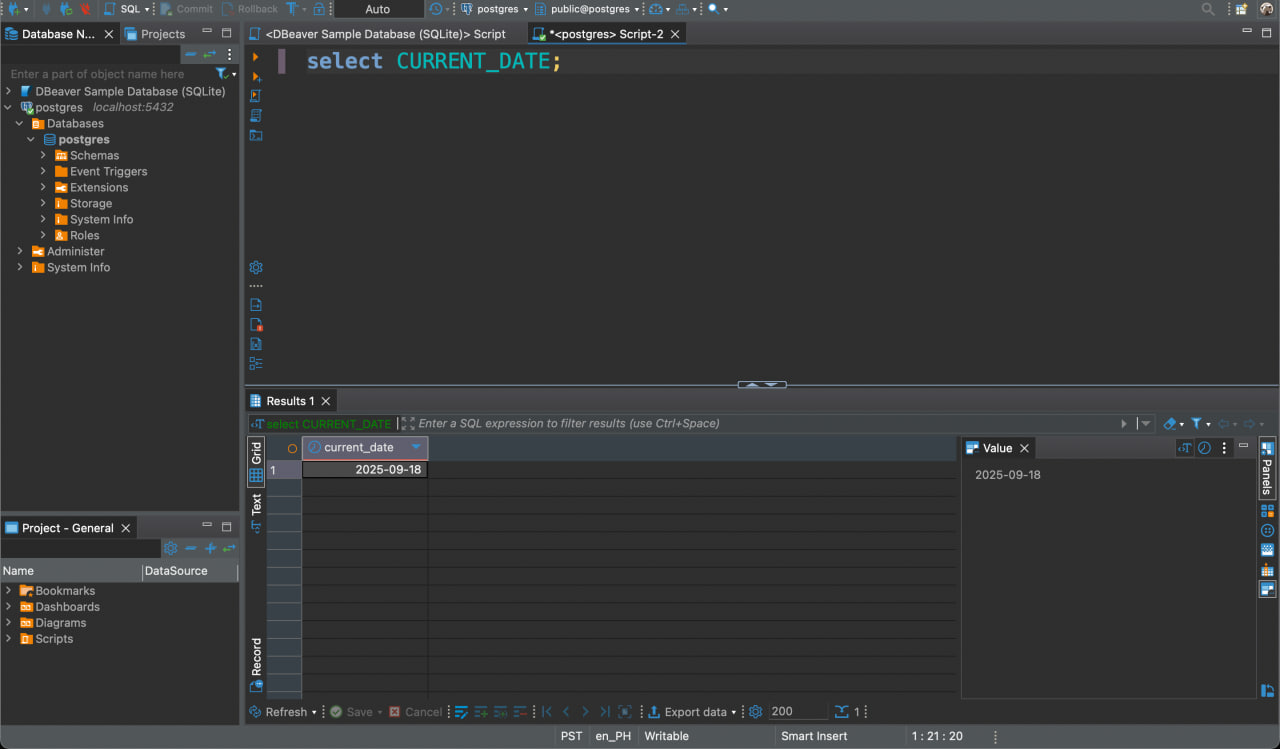
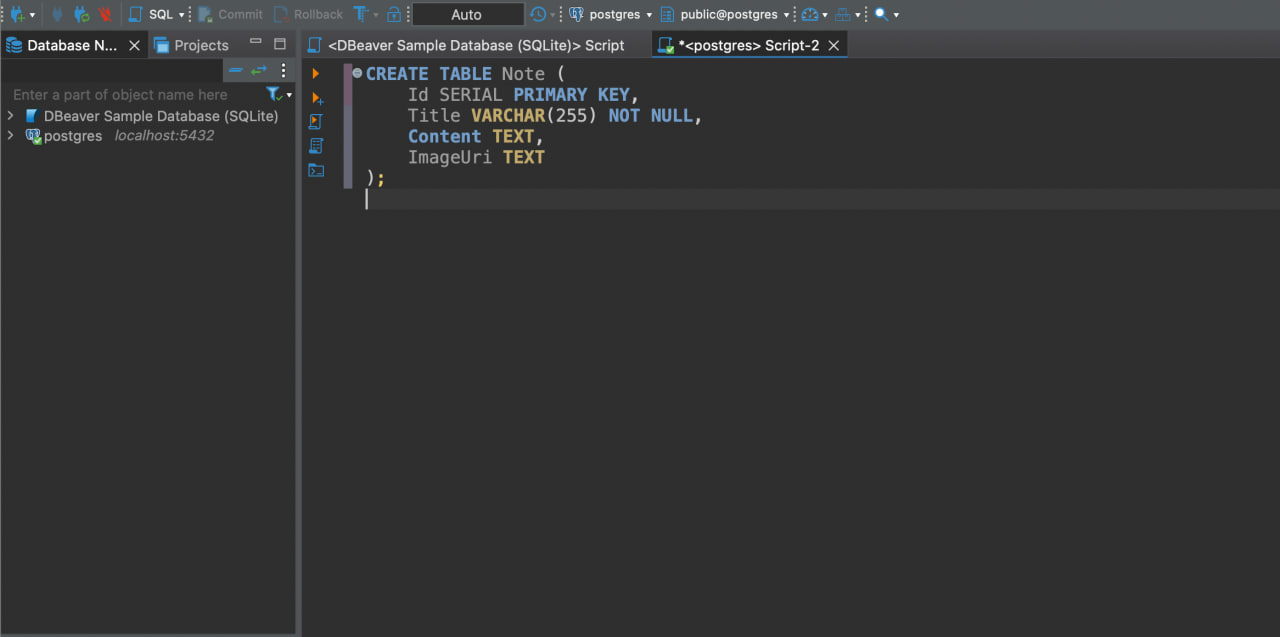
update api section

diff --git a/src/chapter-5/apis.md b/src/chapter-5/apis.md
@@ -1,0 +1,107 @@
+# APIs
+
+Now that we have our database, it’s time to host the REST API that our UI can communicate with.
+
+![Figure 1](../images/apis-1.jpg)
+
+The API has just three endpoints:
+- `GET /notes` – retrieves all notes
+- `POST /notes` – adds a new note
+- `DELETE /note/{id}` – deletes the note with the specified ID
+
+## Database Connection
+To connect to the database initially, I hardcoded a Postgres connection string in my **appsettings** and used it at runtime. This approach is not secure since it exposes sensitive data in source control. We’ll address how to secure this in a later section.
+
+```json
+"ConnectionStrings": {
+    "DefaultConnection": "Host=localhost;Port=5432;Database=postgres;Username=postgres;Password=postgres"
+}
+```
+Also notice how I'm using `localhost` as my host for now. This works during development since I'm able to proxy requests to my Postgres service. But once we run this as a container it won't work anymore because there would be no database service running in the API's container. We'll see how to address this in the next section.
+
+## Containerization with Docker
+For now, with the API ready, the next step is to serve it through Docker. Since no container image exists on Docker Hub for our app yet, we’ll need to build one ourselves.
+
+The goal is to build a Docker image that contains everything the app needs to run: any binaries, dependencies, source code, and the runtime (if it’s not natively compiled).
+
+I’ve included the Dockerfile I created for the `notely-api` project below. It uses a few optimizations and might look a bit more advanced than a beginner Dockerfile example, but don’t worry too much about that. The important part is simply that it produces a working container image for your API. So you do you.
+
+```dockerfile
+FROM mcr.microsoft.com/dotnet/aspnet:8.0 AS base
+WORKDIR /app
+EXPOSE 5228
+
+FROM mcr.microsoft.com/dotnet/sdk:8.0 AS build
+ARG BUILD_CONFIGURATION=Release
+WORKDIR /src
+COPY ["notely-api.csproj", "."]
+RUN dotnet restore "notely-api.csproj"
+COPY . .
+RUN dotnet build "notely-api.csproj" -c $BUILD_CONFIGURATION -o /app/build
+
+FROM build AS publish
+ARG BUILD_CONFIGURATION=Release
+RUN dotnet publish "notely-api.csproj" -c $BUILD_CONFIGURATION -o /app/publish /p:UseAppHost=false
+
+FROM base AS final
+WORKDIR /app
+COPY --from=publish /app/publish .
+ENTRYPOINT ["dotnet", "notely-api.dll"]
+```
+
+Let's break down what this does into steps:
+
+1. **Base Image**
+```dockerfile
+FROM mcr.microsoft.com/dotnet/aspnet:8.0 AS base
+WORKDIR /app
+EXPOSE 5228
+```
+This stage defines the runtime environment for our API. We start with Microsoft’s official ASP.NET 8.0 runtime image, set /app as the working directory, and expose port 5228, which is the port our API will run on inside the container.
+
+2. **Build Stage**
+```dockerfile
+FROM mcr.microsoft.com/dotnet/sdk:8.0 AS build
+ARG BUILD_CONFIGURATION=Release
+WORKDIR /src
+COPY ["notely-api.csproj", "."]
+RUN dotnet restore "notely-api.csproj"
+COPY . .
+RUN dotnet build "notely-api.csproj" -c $BUILD_CONFIGURATION -o /app/build
+```
+Here, we use Microsoft’s .NET 8.0 SDK image, which includes everything needed to compile the source code. We copy in the project file, restore dependencies, then copy in the rest of the code and build it. The result is a set of compiled binaries in `/app/build`
+
+3. **Publish Stage**
+```dockerfile
+FROM build AS publish
+ARG BUILD_CONFIGURATION=Release
+RUN dotnet publish "notely-api.csproj" -c $BUILD_CONFIGURATION -o /app/publish /p:UseAppHost=false
+```
+This stage takes the compiled code and performs a `dotnet publish`, which trims out unnecessary build files and produces the minimal set of files required to actually run the API. We then drop those into `/app/publish`.
+
+4. **Final Stage**
+```dockerfile
+FROM base AS final
+WORKDIR /app
+COPY --from=publish /app/publish .
+ENTRYPOINT ["dotnet", "notely-api.dll"]
+```
+Finally, we start from the smaller ASP.NET runtime image (the `base` stage), copy in only the published output, and set the container to run the app by default with `dotnet notely-api.dll`. This keeps the final image small and focused just on running the API.
+
+## Building the Image
+
+Now that we have a Dockerfile, we can turn it into an image that can be run as a container. Run the following command from the root of the project (where the Dockerfile is located):
+
+```sh
+docker build -t jamesesguerra025/notely-api .
+```
+
+You can replace the repository and image name with whatever naming convention you prefer.
+
+## Running the Container
+
+Once the image is built, you can start a container from it. The command below runs the container, maps port 5228 inside the container to port 5228 on your host, and gives it a friendly name:
+
+```sh
+docker run -d -p 5228:5228 --name notely-api jamesesguerra025/notely-api
+```

diff --git a/src/chapter-2/my-journey.md b/src/chapter-2/my-journey.md
@@ -6,7 +6,7 @@ For a while, that was enough. But when Heroku’s free tier ended in November 20
 
 Around the same time, I landed a job as a software engineer working with .NET and SQL Server. Suddenly, I had a new problem: most PaaS platforms catered to Node.js or Python apps, with PostgreSQL as the default database. Finding a service that supported .NET out of the box was pretty challenging.
 
-I gave those platforms a shot, but another issue surfaced: network latency. From my country (the Philippines), connecting to their servers felt sluggish. That pushed me to try Azure, since I was already using it at work. Azure App Service was honestly great and super easy to set up (I even wrote an [article](https://medium.com/@jamesesguerra025/how-to-deploy-a-net-api-for-free-on-azure-787e95424f0a) about it). The catch, though, was the database pricing. I built a small app for my mom’s job, and even though it didn’t store much data, my Azure SQL bill ballooned to around ₱1,000 (~17 USD) a month. For a side project I wanted to host for free, that felt like burning money.
+I gave those platforms a shot, but another issue surfaced: network latency. From my country (the Philippines), connecting to their servers felt sluggish. That pushed me to try Azure, since I was already using it at work. Azure App Service was honestly great and super easy to set up (I even wrote an [article](https://medium.com/@jamesesguerra025/how-to-deploy-a-net-api-for-free-on-azure-787e95424f0a) about it). The catch, though, was the database pricing. I built a small app to help my mom with her job, and even though it didn’t store much data, my Azure SQL bill ballooned to around ₱1,000 (~17 USD) a month. For a side project I wanted to host for free, that felt like burning money.
 
 That frustration led me deeper into DevOps. In September 2024, I bought a mini PC and dove into the world of self-hosting. I saw people online running setups I could barely comprehend. Jellyfin, Nextcloud, Home Assistant, you name it. I started smaller, hosting apps like Glance, Jellyfin, Nginx Proxy Manager, Gitea, and even my own self-hosted runners, all managed with Docker Swarm.
 
@@ -14,4 +14,4 @@ It was addictive. So I soon thought, if I can host all this infrastructure mysel
 
 From there, I began piecing together a simple architecture, one where my projects could safely connect to the different services on my mini PC without me constantly worrying about breaking something.
 
-And that’s how this book came to be: the result of documenting that journey, so other budget-conscious developers like me can build their own little cloud at home.
+And that’s how this book came to be: the result of documenting that journey, so other budget-conscious developers like me can build their own little cloud at home that can host their projects.

diff --git a/src/chapter-5/intro-sample-app.md b/src/chapter-5/intro-sample-app.md
@@ -1,0 +1,31 @@
+# Introducing Our Sample App
+
+## Notely
+
+Before we dive into hosting more services, i'll try to ground ourselves with a concrete example. Throughout this chapter, I’ll be using a simple full-stack app called **Notely**.
+
+![Figure 1](../images/sample-app.jpg)
+
+Notely is a super minimal note-taking app that supports the basic CRUD (Create, Read, Update, Delete) operations. It simply allows you to view notes, add notes, and delete notes. In reality, what the app does doesn’t really matter. The focus here is on learning how to host and connect the different parts of a full-stack app. I chose something this simple so we can keep our attention on the hosting concepts rather than the app’s complexity.
+
+Each note has just a few fields:
+- `id` – a unique identifier
+- `title` – a short text label
+- `content` – the main body of the note
+- `imageUri` – a string that points to an uploaded image
+
+The app is built with React on the frontend and .NET Core on the backend. React gives us a clean, interactive UI for managing notes, while .NET Core provides the API that connects to our database and exposes the necessary endpoints.
+
+It’s deliberately simple, but this simplicity is what makes it a perfect learning companion. With Notely, we’ll touch on the main building blocks of almost any full-stack app:
+- a **database** for storing notes
+- an **API** that acts as a structured connector to our database
+- a **UI** so users can actually interact with them
+- **object storage** for image uploads
+
+Even though I’ll be walking through everything in the context of Notely, the concepts apply to just about any app you might want to host. So whether you’re building a recipe manager, a small blog, or your next big idea, you should be able to follow along and apply the same principles.
+
+## Using Different Services
+
+Notely is just an example, you don’t have to use the exact services I’m showing. For any part of your stack, you can find a container that works for your preferred tool and follow its instructions to set it up. It's really just as simple as going to [Docker Hub](https://hub.docker.com/), searching for what you want, and following their setup instructions. 
+
+That said, you’ll have to do a bit more grunt work from your end: reading the documentation, configuring the container to fit your setup, and making sure it can communicate with the other services in your environment. Some tweaks to networking, environment variables, or storage paths might be necessary, but the hosting concepts in this book: connecting services, networking containers, and exposing endpoints, all apply the same way. This gives you the flexibility to experiment with whatever stack you like while following along.

diff --git a/src/chapter-5/databases-local.md b/src/chapter-5/databases-local.md
@@ -1,4 +1,4 @@
-# Exposing Postgres for Local Access
+# Exposing for Local Access
 If Adminer isn’t your thing (I wouldn’t blame you, it can feel pretty clunky at first), you can connect to the self-hosted database using a tool like DBeaver, TablePlus, or any other SQL client. This assumes that you're hosting on a mini PC though, or that you can connect with another device.
 
 To make this possible, we need to expose the Postgres container’s port so it’s reachable outside of Docker. This is done by adding a `ports` section to your Compose file. Forward host port `5432` to the container’s `5432` (Postgres’s default port). You can also remove the `adminer` service since we won’t need it anymore.
@@ -28,7 +28,7 @@ You can quickly verify that the container is reachable with:
 curl localhost:1433
 ```
 
-If you see  `curl: Empty reply from server`, this is actually a good thing. t means the connection works; Postgres just doesn’t speak HTTP. However, if you see `curl: Failed to connect to localhost port 5432`, then something's wrong. Double-check your compose file and restart.
+If you see  `curl: Empty reply from server`, this is actually a good thing. It means the connection works; Postgres just doesn’t speak HTTP. However, if you see `curl: Failed to connect to localhost port 5432`, then something's wrong. Double-check your compose file and restart.
 
 ## Exposing through Cloudflare
 Now that your DB port is exposed locally, we can make it accessible remotely. Head back to the **Zero Trust Dashboard** and publish a new application route. This time, instead of setting the **Service Type** to `HTTP`, choose `TCP`, since databases don’t respond to HTTP traffic.
@@ -60,7 +60,7 @@ For my Host, enter `localhost`, then fill in the same credentials as before.
 
 ![Figure 2](../images/connecting-locally-2.png)
 
-Click **Test Connection** to make sure everything is working. If the test succeeds, click **Finish**. You should now be able to run queries against your server in a friendlier, more familiar interface.
+Click **Test Connection** to make sure everything is working. If the test succeeds, click **Finish**. You should now be able to run queries against your server in a friendlier, more familiar interface. And because I’m used to just typing queries in an editor, I’ll take the time to enter my `CREATE TABLE` statement for our `Note` table.
 
 ![Figure 3](../images/connecting-locally-3.jpg)
 

diff --git a/src/chapter-4/cloudflare-account-and-domain.md b/src/chapter-4/cloudflare-account-and-domain.md
@@ -1,7 +1,7 @@
 # Setting up a Cloudflare account + Domain
 
 ## Why Cloudflare?
-First, I have to mention why I chose to register my domain with Cloudflare. It's mainly because it gives me free, automatic HTTPS out of the box. That means the moment I map a service to my domain, Cloudflare issues and manages SSL/TLS certificates for me, with no manual setup or renewal required. For a DIY setup where I can't be bothered fiddling with Let’s Encrypt or OpenSSL (yes, there are tools to make it easier, but nothing beats doing nothing) configuration, this is a huge win. Managing your own certificates and dealing with HTTPS in general can quickly become a headache and a roadblock for beginners.
+First, I have to mention why I chose to register my domain with Cloudflare. It's mainly because it gives me free, automatic HTTPS out of the box. That means the moment I map a service to my domain, Cloudflare issues and manages SSL/TLS certificates for me, with no manual setup or renewal required. For a DIY setup where I can't be bothered fiddling with Let’s Encrypt or OpenSSL configuration, this is a huge win (yes, there are tools to make it easier, but nothing beats doing nothing). Managing your own certificates and dealing with HTTPS in general can quickly become a headache and a roadblock for beginners.
 
 Another advantage is that since we’ll be using Cloudflare Tunnels, registering the domain with Cloudflare simplifies everything. All configuration changes can be handled from a single dashboard, reducing context-switching and making management much smoother.
 

diff --git a/src/SUMMARY.md b/src/SUMMARY.md
@@ -32,11 +32,14 @@
 
 # Hosting All the Things
 - [Hello, Tunnel!](./chapter-5/hello-tunnel.md)
+- [Introducing Our Sample App](./chapter-5/intro-sample-app.md)
 - [Databases](./chapter-5/databases.md)
-  - [Exposing Postgres for Local Access](./chapter-5/databases-local.md)
-- [Hosting APIs via Docker Swarm](./chapter-5/apis-docker-swarm.md)
-- [Using a reverse proxy](./chapter-5/reverse-proxy.md)
-- [Scaling until maxing out CPU](./chapter-5/scaling.md)
+  - [Exposing for Local Access](./chapter-5/databases-local.md)
+- [APIs](./chapter-5/apis.md)
+- [Connecting Services with Docker Networking](./chapter-5/connecting-services.md)
+- [Docker Swarm](./chapter-5/docker-swarm.md)
+- [Reverse Proxies](./chapter-5/reverse-proxies.md)
+- [Object Storage](./chapter-5/object-storage.md)
 
 # Developer’s Playground
 - [Deploying pet projects](./chapter-6/deploying-pet-projects.md)
@@ -48,6 +51,7 @@
 
 # Beyond the Basics
 - [Monitoring and logging](./chapter-7/monitoring-logging.md)
+- [Caching](./chapter-7/caching.md)
 - [What else to host?](./chapter-7/what-else-to-host.md)
 
 # Wrapping Up

diff --git a/src/chapter-5/connecting-services.md b/src/chapter-5/connecting-services.md
@@ -1,0 +1,1 @@
+# Connecting Services with Docker Networking

diff --git a/src/chapter-5/reverse-proxies.md b/src/chapter-5/reverse-proxies.md
@@ -1,0 +1,1 @@
+# Reverse Proxies

diff --git a/src/chapter-5/object-storage.md b/src/chapter-5/object-storage.md
@@ -1,0 +1,1 @@
+# Object Storage

diff --git a/src/chapter-5/docker-swarm.md b/src/chapter-5/docker-swarm.md
@@ -1,0 +1,1 @@
+# Docker Swarm

diff --git a/src/chapter-7/caching.md b/src/chapter-7/caching.md
@@ -1,0 +1,1 @@
+# Caching
